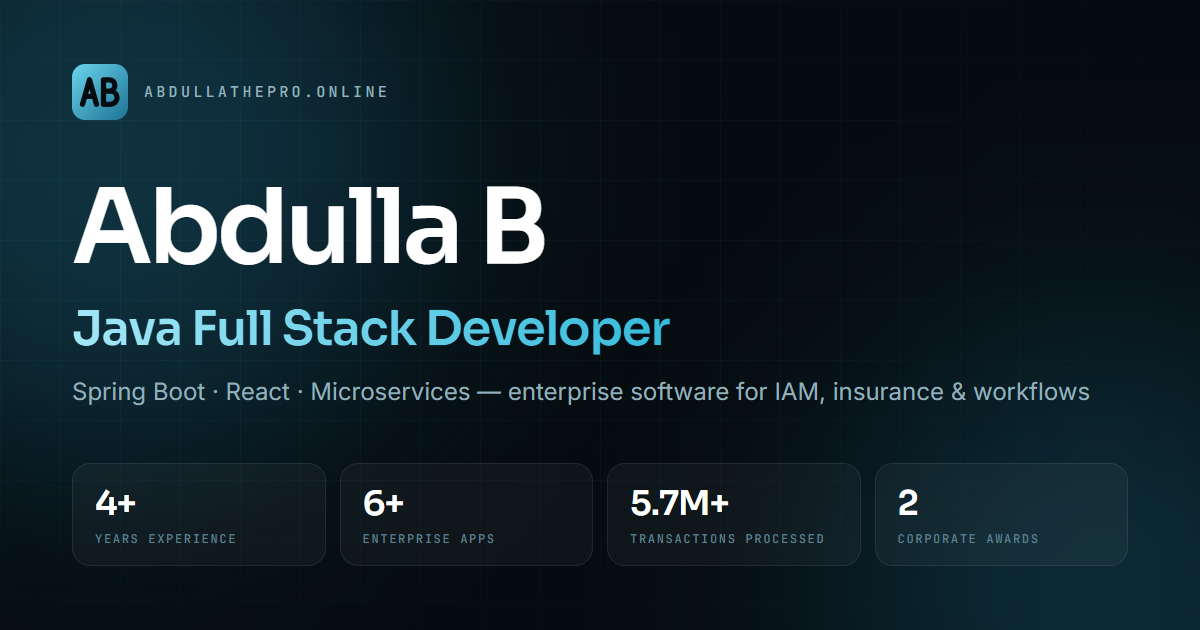
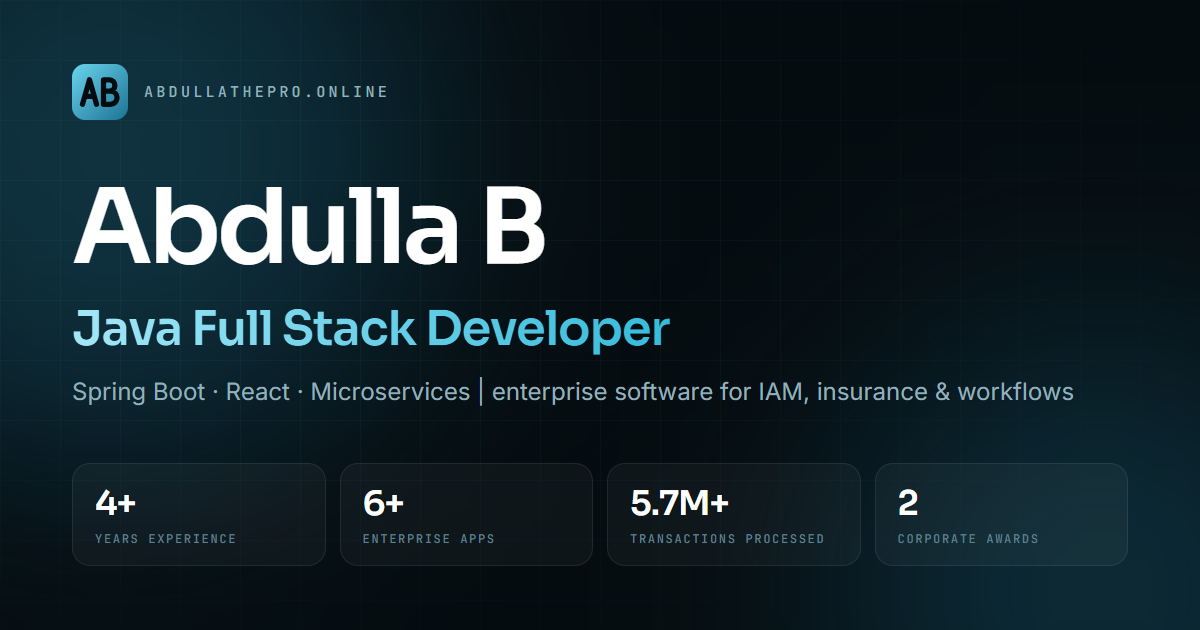
Content: use pipe separators in titles and OG card
Replace the em/en dash separators with " | " across the page title,
meta description, Open Graph/Twitter titles and alt text, the 404 title,
the web manifest name, and the OG card subtitle. Regenerate
public/og-image.png from scripts/og-image.html.

Changed region(s): [[0.4008, 0.6032, 0.925, 0.6333]]

diff --git a/index.html b/index.html
@@ -5,9 +5,9 @@
   <meta charset="UTF-8" />
   <meta name="viewport" content="width=device-width, initial-scale=1.0" />
 
-  <title>Abdulla B – Java Full Stack Developer | Spring Boot &amp; React</title>
+  <title>Abdulla B | Java Full Stack Developer | Spring Boot &amp; React</title>
   <meta name="description"
-    content="Abdulla B – award-winning Java Full Stack Developer with 4+ years building enterprise apps in Spring Boot &amp; React for IAM, insurance and workflow automation." />
+    content="Abdulla B | award-winning Java Full Stack Developer with 4+ years building enterprise apps in Spring Boot &amp; React for IAM, insurance and workflow automation." />
   <meta name="keywords"
     content="Abdulla B, Java Full Stack Developer, Java Developer, Spring Boot Developer, React Developer, Backend Engineer, Software Engineer, Full Stack Engineer, SDE-II, Enterprise Application Developer, Microservices, REST APIs, Hibernate, Redis, JWT, RBAC, IAM, Insurance Technology, MariaDB, MySQL" />
   <meta name="author" content="Abdulla B" />
@@ -24,24 +24,24 @@
   <meta property="og:type" content="profile" />
   <meta property="og:site_name" content="Abdulla B" />
   <meta property="og:url" content="https://abdullathepro.online/" />
-  <meta property="og:title" content="Abdulla B – Java Full Stack Developer" />
+  <meta property="og:title" content="Abdulla B | Java Full Stack Developer" />
   <meta property="og:description"
     content="Building enterprise software that automates business operations and improves customer experience. 6+ enterprise applications delivered. Award-winning contributor." />
   <meta property="og:image" content="https://abdullathepro.online/og-image.png" />
   <meta property="og:image:type" content="image/png" />
   <meta property="og:image:width" content="1200" />
   <meta property="og:image:height" content="630" />
-  <meta property="og:image:alt" content="Abdulla B – Java Full Stack Developer. Spring Boot, React, enterprise applications." />
+  <meta property="og:image:alt" content="Abdulla B | Java Full Stack Developer. Spring Boot, React, enterprise applications." />
   <meta property="profile:first_name" content="Abdulla" />
   <meta property="profile:username" content="abdullathepro" />
 
   <!-- Twitter / X -->
   <meta name="twitter:card" content="summary_large_image" />
-  <meta name="twitter:title" content="Abdulla B – Java Full Stack Developer" />
+  <meta name="twitter:title" content="Abdulla B | Java Full Stack Developer" />
   <meta name="twitter:description"
     content="Java Full Stack Developer delivering enterprise software across IAM, Insurance, workflow automation, and customer-service systems. Java · Spring Boot · React.js." />
   <meta name="twitter:image" content="https://abdullathepro.online/og-image.png" />
-  <meta name="twitter:image:alt" content="Abdulla B – Java Full Stack Developer. Spring Boot, React, enterprise applications." />
+  <meta name="twitter:image:alt" content="Abdulla B | Java Full Stack Developer. Spring Boot, React, enterprise applications." />
 
   <!-- Without JS the scroll-reveal never fires, so show everything up front. -->
   <noscript>

diff --git a/scripts/og-image.html b/scripts/og-image.html
@@ -71,7 +71,7 @@
     </div>
     <h1>Abdulla B</h1>
     <div class="role">Java Full Stack Developer</div>
-    <p class="sub">Spring Boot · React · Microservices — enterprise software for IAM, insurance &amp; workflows</p>
+    <p class="sub">Spring Boot · React · Microservices | enterprise software for IAM, insurance &amp; workflows</p>
     <div class="stats">
       <div class="stat"><b>4+</b><span class="mono">Years experience</span></div>
       <div class="stat"><b>6+</b><span class="mono">Enterprise apps</span></div>

diff --git a/public/404.html b/public/404.html
@@ -4,7 +4,7 @@
 <head>
   <meta charset="UTF-8" />
   <meta name="viewport" content="width=device-width, initial-scale=1.0" />
-  <title>Page not found – Abdulla B</title>
+  <title>Page not found | Abdulla B</title>
   <meta name="robots" content="noindex" />
   <meta name="theme-color" content="#050c10" />
   <link rel="icon" href="/favicon.ico" sizes="48x48" />
